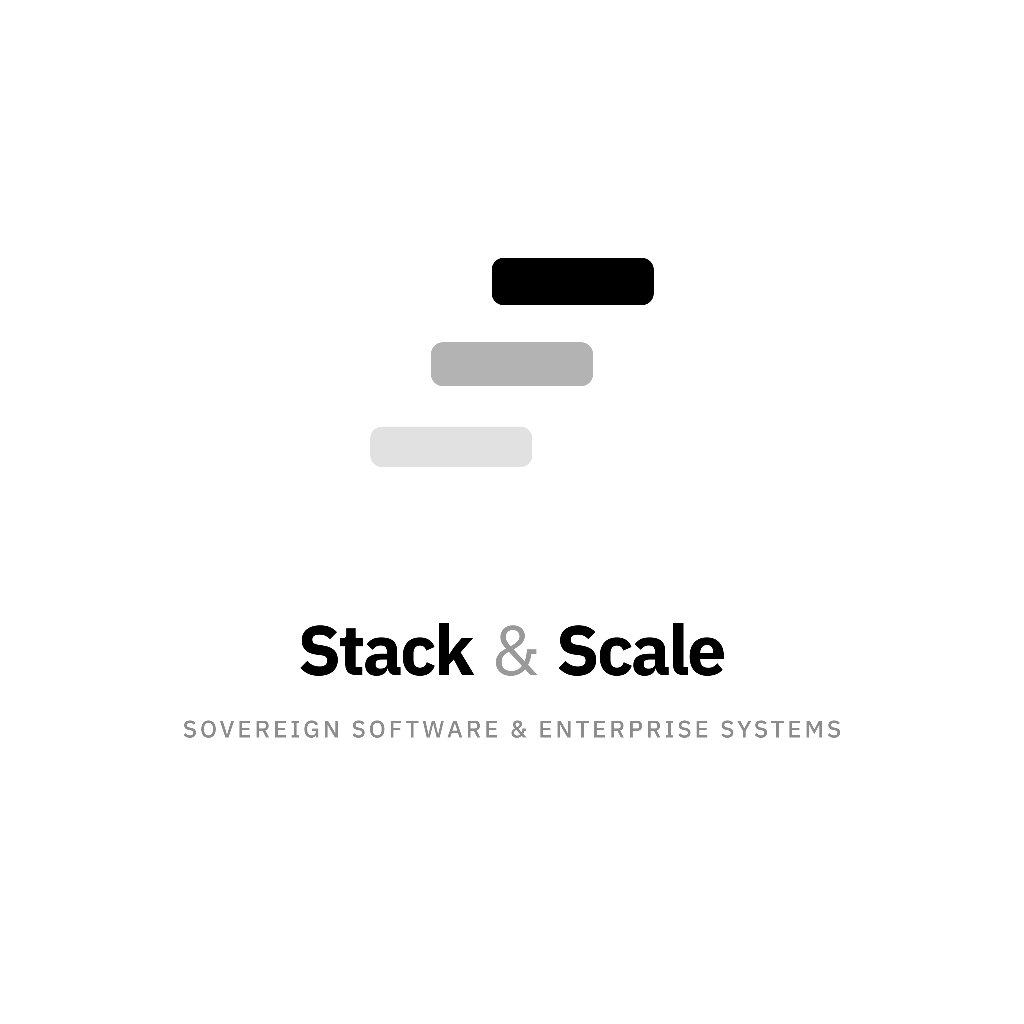
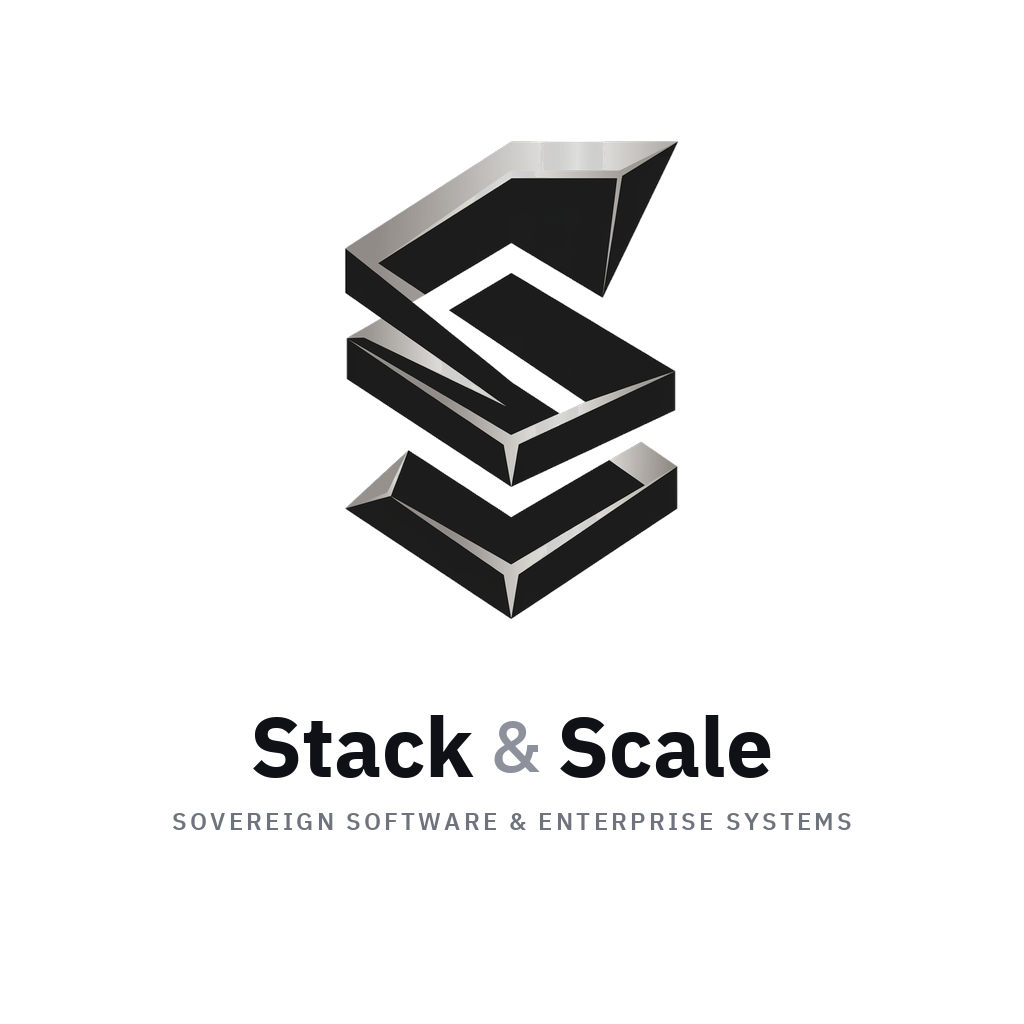
feat(brand): launch enterprise architectural identity for Stack & Scale

Changed region(s): [[0.2812, 0.125, 0.7188, 0.6562], [0.1562, 0.6875, 0.8438, 0.8125]]

diff --git a/src/components/help/HelpCenter.tsx b/src/components/help/HelpCenter.tsx
@@ -951,11 +951,16 @@ export function HelpCenter({ onNavigate }: HelpCenterProps) {
         badge: "Partner",
         content: (
           <div className="space-y-4 text-sm leading-relaxed">
-            <div className="rounded-lg border bg-white dark:bg-card p-4 flex items-center justify-center shadow-xs">
+            <div className="rounded-lg border bg-white dark:bg-zinc-950 p-4 flex items-center justify-center shadow-xs">
               <img
                 src="/stack-and-scale-logo.png"
                 alt="Stack & Scale - Sovereign Software & Enterprise Systems"
-                className="h-10 object-contain"
+                className="h-10 object-contain dark:hidden"
+              />
+              <img
+                src="/stack-and-scale-logo-dark.png"
+                alt="Stack & Scale - Sovereign Software & Enterprise Systems"
+                className="h-10 object-contain hidden dark:block"
               />
             </div>
 
